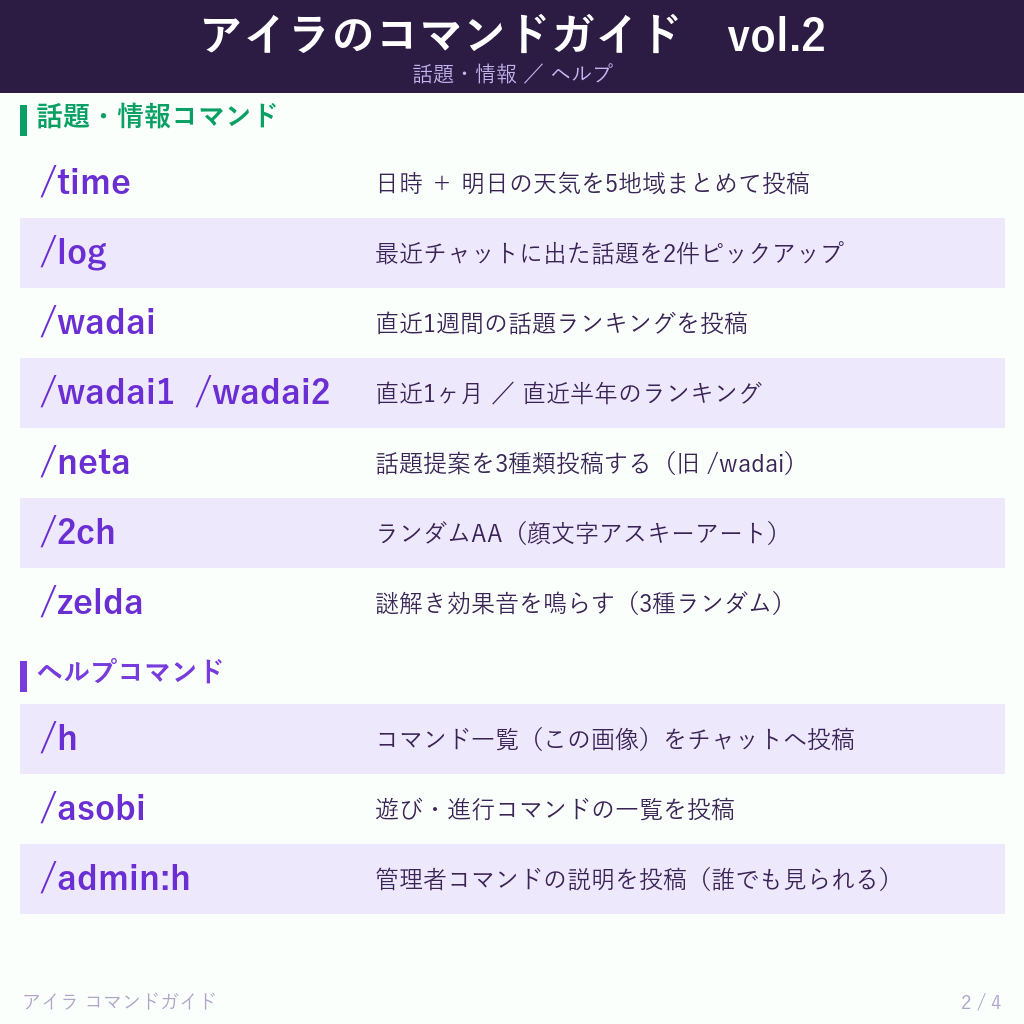
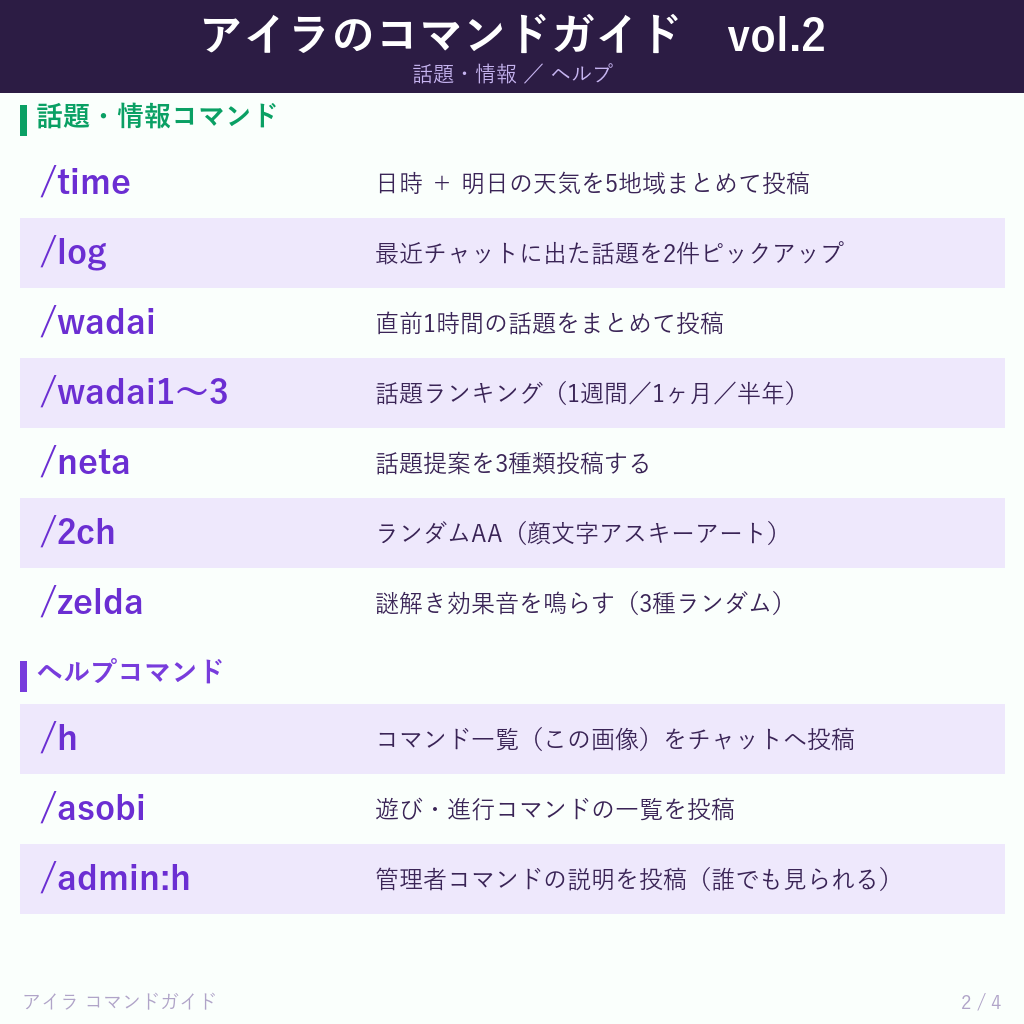
docs: /wadai を «直前1時間の話題» に、話題ランキングを /wadai1〜3 へ繰り下げ
- command.htm: /wadai＝直前1時間の話題（会話が無ければ前日の話題）、
  /wadai1〜3＝話題ランキング（1週間／1ヶ月／半年）。/neta の「前の /wadai」表記は
  /wadai が二度変わって紛らわしいので削除。
- ヘルプ画像 vol.2（help_05_info.png・help_general.gif）を再生成。
  コマンド欄が説明欄にくっつかないよう「/wadai1〜3」とまとめて表記。

diff --git a/command.htm b/command.htm
@@ -280,15 +280,16 @@
 
         <article class="cmd" style="--c1:#ffd23f;--c2:#3ff2c2">
           <span class="name">/wadai</span>
-          <p class="what">直近1週間で盛り上がった話題ランキング 📊</p>
-          <p class="detail">その日その日に話していた<span class="k">「話題」そのもの</span>を数えたTOPを投稿（ワードの数え上げとは別物）。<code class="inl">1.ゼルダの伝説シリーズ(8回3人)</code> のように出るよ。</p>
+          <p class="what">さっきまで何の話をしてた？を、アイラがまとめてくれるよ 🗣</p>
+          <p class="detail"><span class="k">【直前1時間の話題】</span>として、ここ1時間の会話を話題ごとに3〜5行で投稿。途中から来た時や、ちょっと離れて戻ってきた時に便利。<br>直前1時間に会話がなかった時は、<span class="k">前日の話題</span>（最後のおしゃべりから1日ぶん）をまとめてくれるよ。</p>
           <div class="ex"><span class="lab">れい</span><code>/wadai</code><button class="copy" data-c="/wadai">コピー</button></div>
+          <p class="tip">💡 続けて使えるのは3分おき。前の /wadai（話題ランキング）は /wadai1 になったよ。</p>
         </article>
 
         <article class="cmd" style="--c1:#3ff2c2;--c2:#36c5ff">
-          <span class="name">/wadai1 &nbsp;/&nbsp; /wadai2</span>
-          <p class="what">もっと長い期間のランキングも見られるよ 📈</p>
-          <p class="detail"><span class="k">/wadai1</span> … 直近1ヶ月 ／ <span class="k">/wadai2</span> … 直近半年。「最近ずっと何の話してた？」を振り返るのに便利。</p>
+          <span class="name">/wadai1〜3</span>
+          <p class="what">盛り上がった話題ランキング 📊</p>
+          <p class="detail"><span class="k">/wadai1</span> … 直近1週間 ／ <span class="k">/wadai2</span> … 直近1ヶ月 ／ <span class="k">/wadai3</span> … 直近半年。その日その日に話していた<span class="k">「話題」そのもの</span>を数えたTOPを投稿（ワードの数え上げとは別物）。<code class="inl">1.ゼルダの伝説シリーズ(8回3人)</code> のように出るよ。</p>
           <div class="ex"><span class="lab">れい</span><code>/wadai1</code><button class="copy" data-c="/wadai1">コピー</button></div>
           <p class="tip">💡 まだ集計されていないと「作れます」と案内が出るよ。その時は管理者さんにお願いしてね。</p>
         </article>
@@ -296,7 +297,7 @@
         <article class="cmd" style="--c1:#36c5ff;--c2:#ff8a3d">
           <span class="name">/neta</span>
           <p class="what">話題に困ったら、おすすめのお題をくれるよ 🎁</p>
-          <p class="detail"><span class="k">【話題提案】</span>として「直接・間接・雑談」を各1件ずつ提案。沈黙しちゃった時の救世主♪ <span class="k">前の /wadai がこれになったよ</span>。</p>
+          <p class="detail"><span class="k">【話題提案】</span>として「直接・間接・雑談」を各1件ずつ提案。沈黙しちゃった時の救世主♪</p>
           <div class="ex"><span class="lab">れい</span><code>/neta</code><button class="copy" data-c="/neta">コピー</button></div>
           <p class="tip">💡 出てこない時は、管理者さんに <code class="inl">/admin:wadai</code> でお題ストックを作ってもらってね。</p>
         </article>

diff --git a/help/make_help_images.py b/help/make_help_images.py
@@ -89,9 +89,9 @@ PAGE_INFO = {
         ("話題・情報コマンド", (10, 160, 100), [
             ("/time", "日時 ＋ 明日の天気を5地域まとめて投稿", False),
             ("/log", "最近チャットに出た話題を2件ピックアップ", False),
-            ("/wadai", "直近1週間の話題ランキングを投稿", False),
-            ("/wadai1  /wadai2", "直近1ヶ月 ／ 直近半年のランキング", False),
-            ("/neta", "話題提案を3種類投稿する（旧 /wadai）", False),
+            ("/wadai", "直前1時間の話題をまとめて投稿", False),
+            ("/wadai1〜3", "話題ランキング（1週間／1ヶ月／半年）", False),
+            ("/neta", "話題提案を3種類投稿する", False),
             ("/2ch", "ランダムAA（顔文字アスキーアート）", False),
             ("/zelda", "謎解き効果音を鳴らす（3種ランダム）", False),
         ]),
